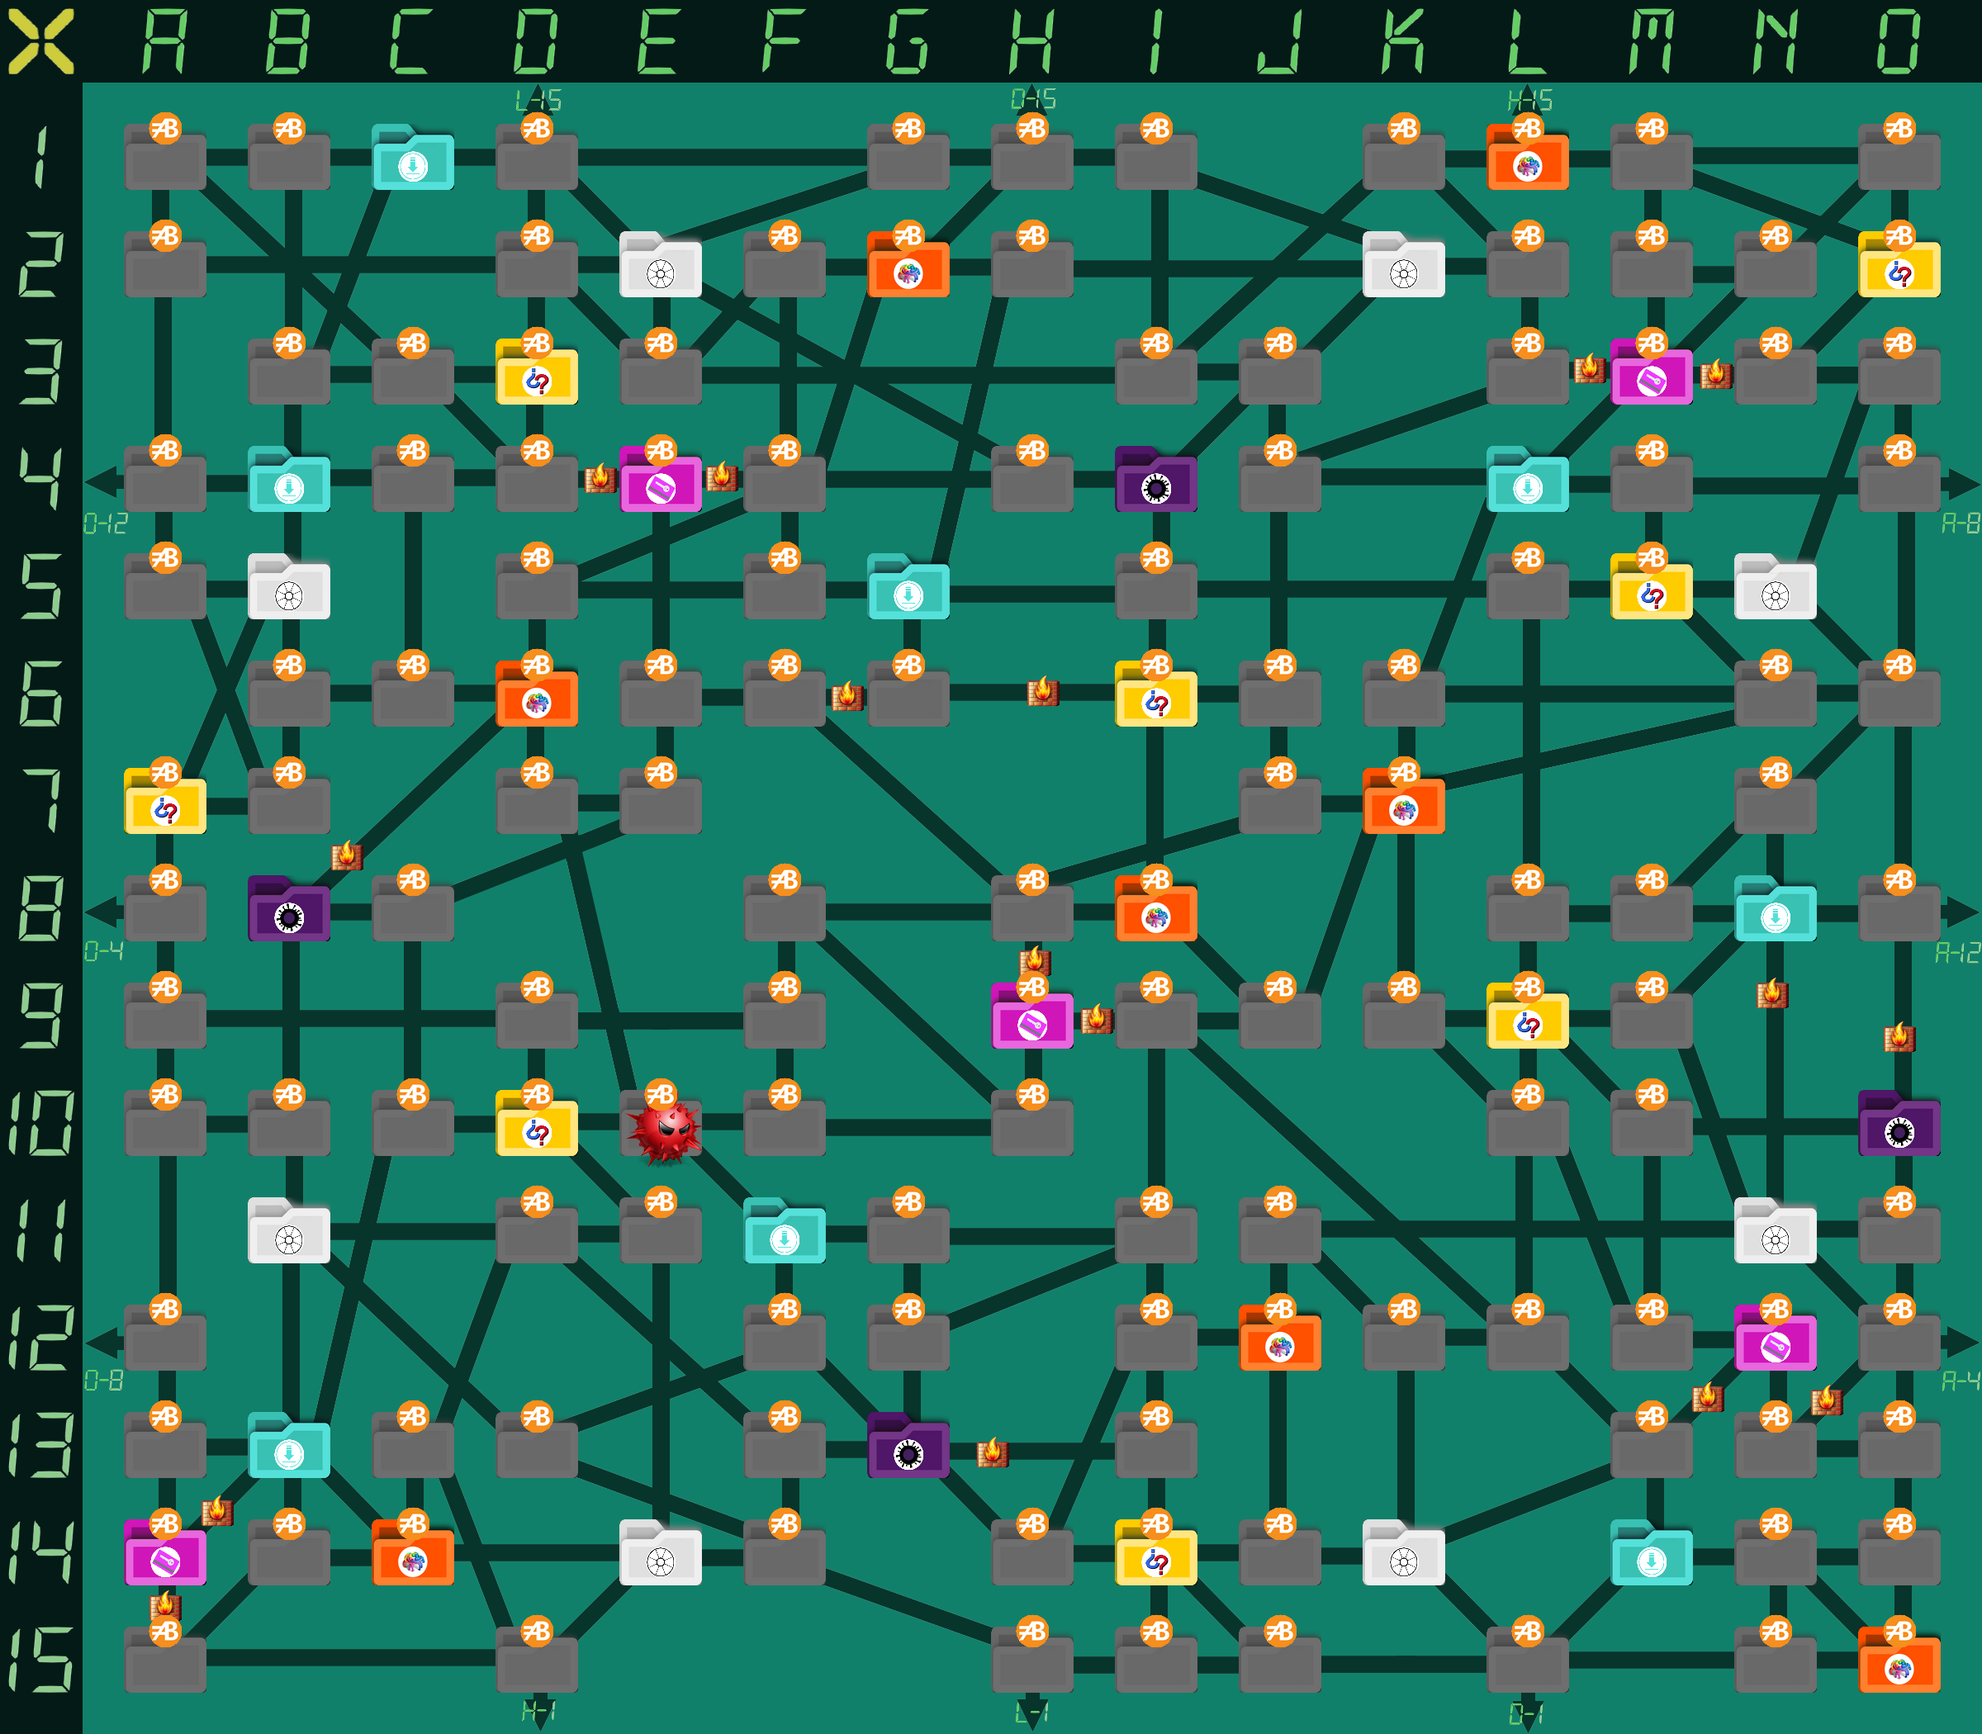
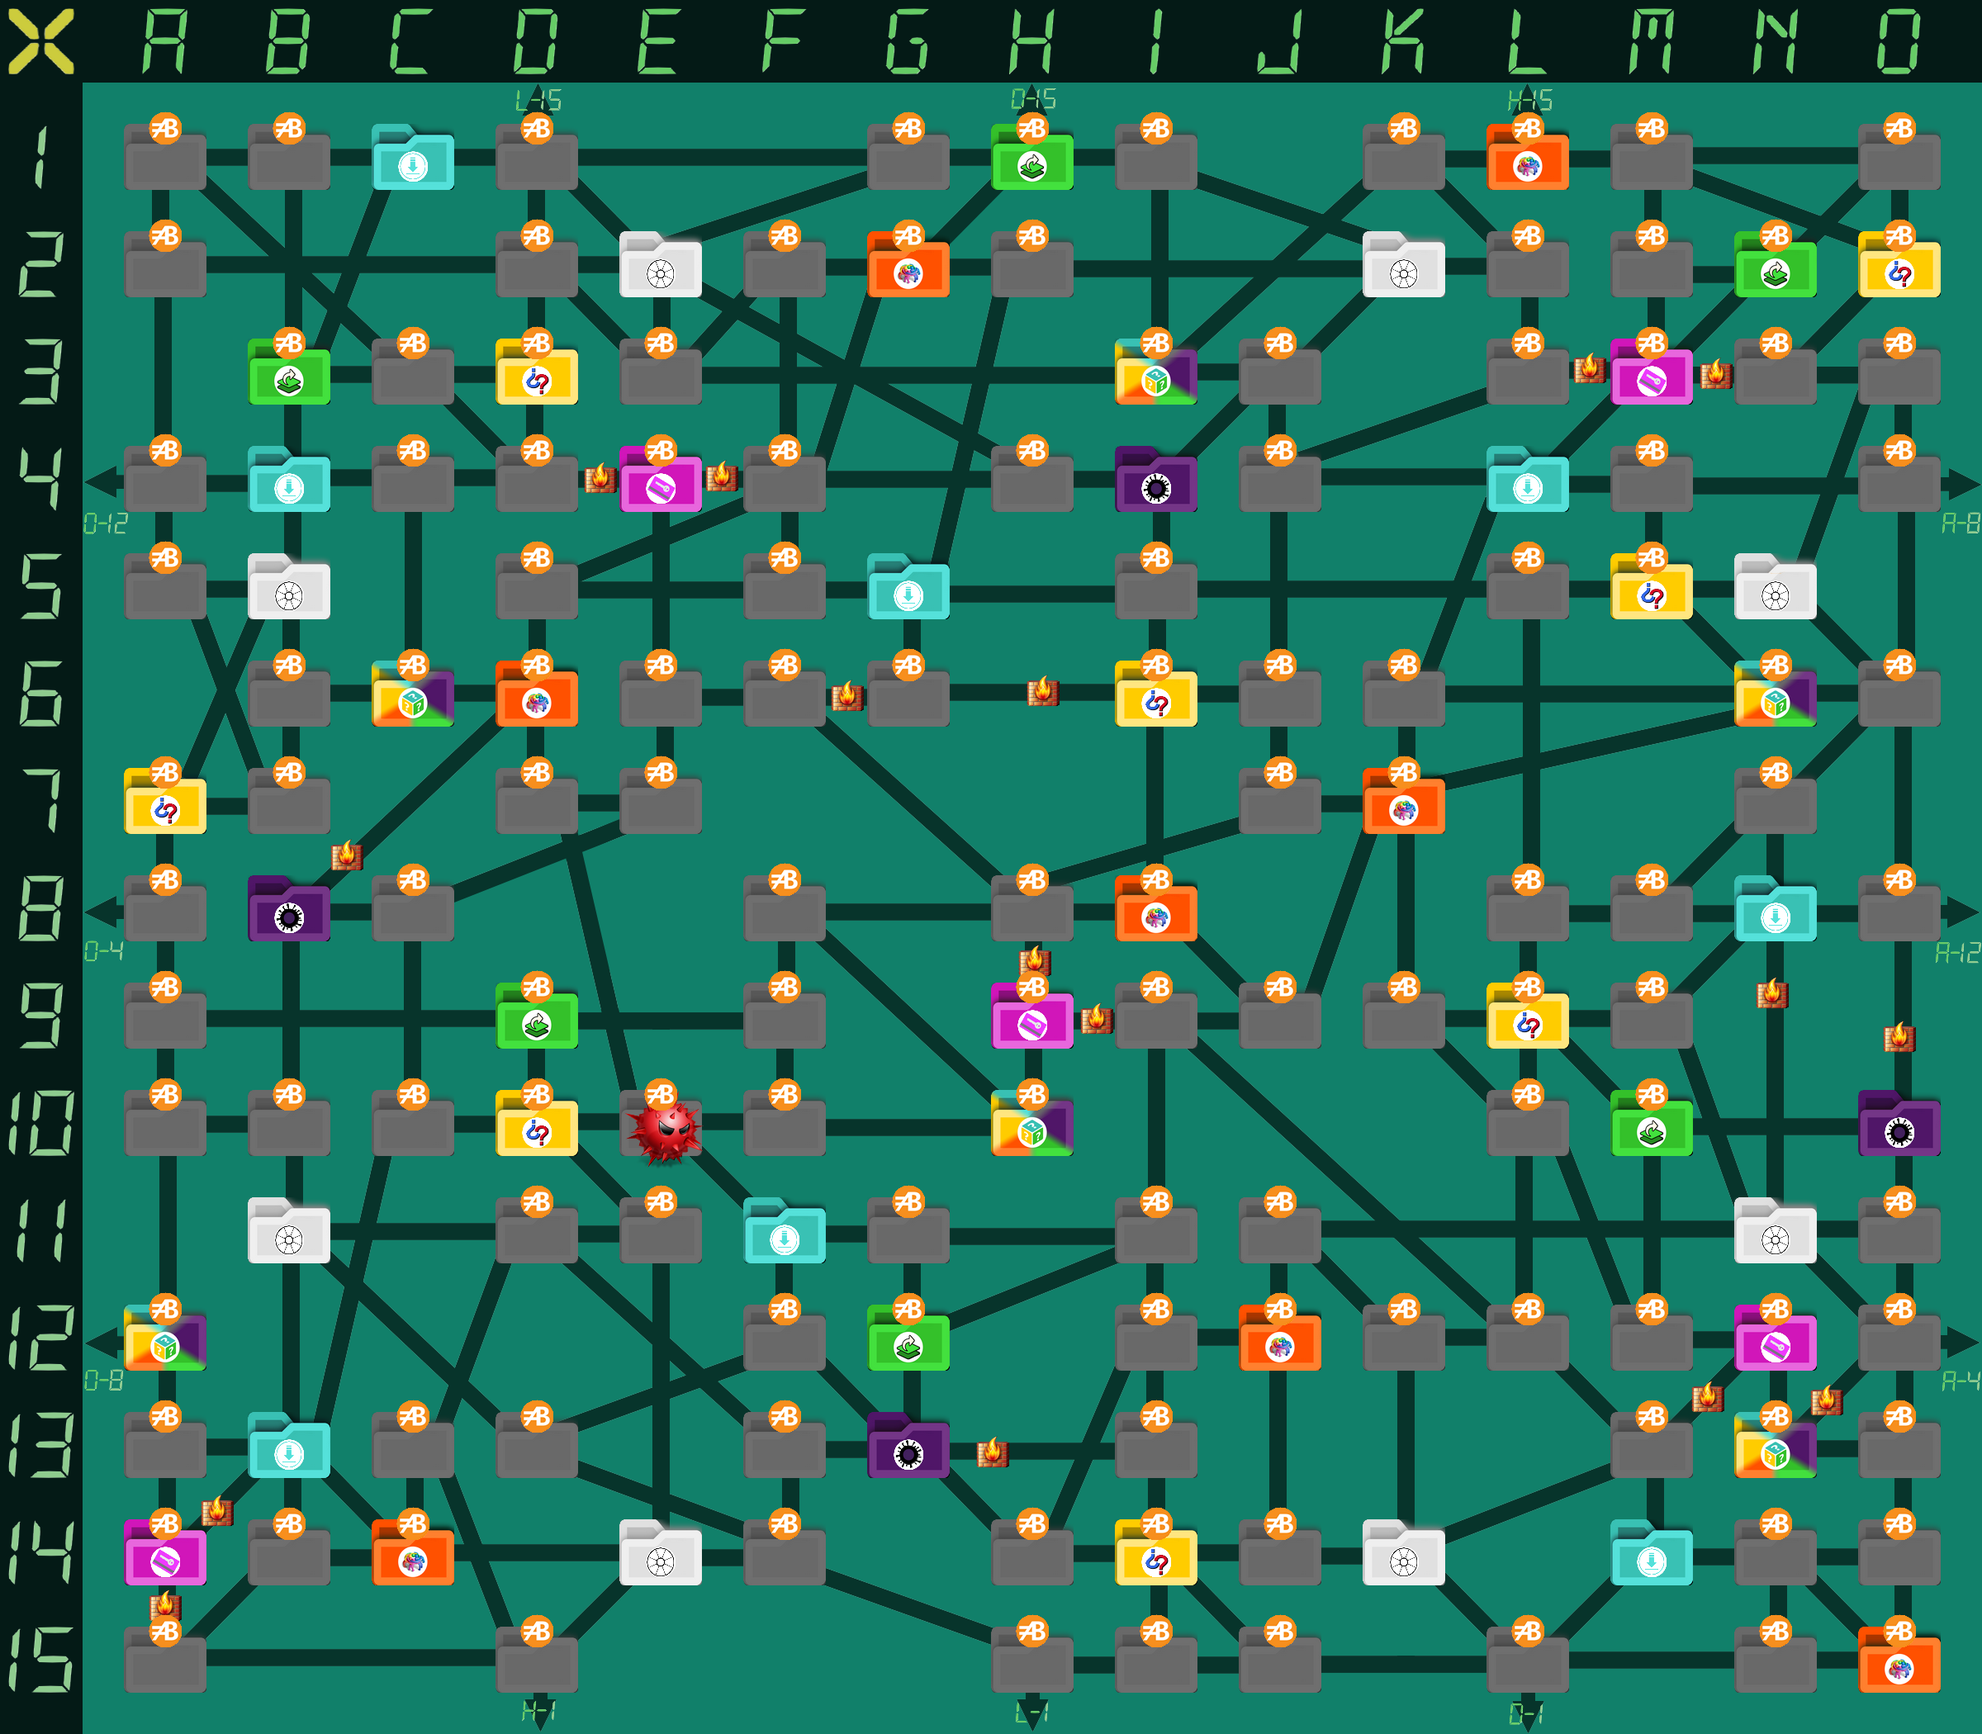
Add files via upload

diff --git a/Placares Secretos - Datamining.html b/Placares Secretos - Datamining.html
@@ -577,16 +577,16 @@
     // Regras e Tabela de Dificuldade mantidas conforme seu código...
     const regrasTexto = {
         pvp: {
-            'muito fácil': ["Recomendado: Máximo 4 jogadores.", "Mapa 5x5 (sem pastas de Chave de Acesso).", "Mapa completo (sem espaços vazios).", "Sem caminhos bloqueados no início.", "SO informa distância e caminhos.", "Zonas Seguras do mapa e individuais informadas.", "Recebe +A e +B simultaneamente.", "Sem limite de uso de Recursos.", "Sem pastas de Quarentena.", "Downloads: -2B (Mín. 1B)."],
-            'fácil': ["Recomendado: Máximo 5 jogadores.", "Mapa 7x7 (1 pasta de Chave de Acesso).", "Diretório Principal: Acesso no 3V.", "Sem caminhos bloqueados no início.", "SO informa distância e caminhos.", "Zonas Seguras do mapa e individuais informadas.", "Recebe +A e +B simultaneamente.", "Limite: 2 Recursos por turno.", "0 a 1 pasta de Quarentena.", "Downloads: -1B (Mín. 1B)."],
-            'normal': ["Recomendado: 3 a 6 jogadores.", "Mapa 9x9 (2 pastas de Chave de Acesso).", "Diretório Principal: Acesso no 5V.", "Caminhos podem começar bloqueados.", "SO informa distância e caminhos.", "Zonas Seguras do mapa e individuais informadas.", "Limite: 1 Recurso por turno.", "1 a 3 pastas de Quarentena no mapa.", "Downloads: Preços normais."],
-            'difícil': ["Recomendado: 4 a 6 jogadores.", "Mapa 12x12 (3 pastas de Chave de Acesso).", "Diretório Principal: Acesso no 7V.", "Mais caminhos bloqueados.", "SO NÃO informa distância ou caminhos.", "Apenas Zonas Seguras individuais são informadas.", "Limite: 1 Recurso por turno.", "2 a 4 pastas de Quarentena (1 turno preso).", "Downloads: +1B."],
-            'extremo': ["Recomendado: 6 a 8 jogadores.", "Mapa 15x15 (5 pastas de Chave de Acesso).", "Diretório Principal: Acesso no 10V.", "Muitos caminhos bloqueados.", "SO NÃO informa distância ou caminhos.", "Zonas Seguras não são informadas.", "Caminhos diagonais não necessariamente em 45º.", "Limite: 1 Recurso por rodada.", "Perdas de A ou B duplicadas.", "Estoque de Downloads reduzido.", "4 ou mais pastas de Quarentena (1 turno preso).", "Downloads: +3B."]
+            'muito fácil': ["Recomendado: Máximo 4 jogadores.", "Mapa 5x5 (sem pastas de Chave de Acesso).", "Mapa completo (sem espaços vazios).", "Sem caminhos bloqueados no início.", "SO informa distância e caminhos.", "Zonas Seguras do mapa e individuais informadas.", "Recebe +A e +B simultaneamente.", "Sem limite de uso de Recursos.", "Multipastas não podem ser de Atalho ou de Quarentena.", "Sem pastas de Atalho.", "Sem pastas de Quarentena.", "Downloads: -2B (Mín. 1B)."],
+            'fácil': ["Recomendado: Máximo 5 jogadores.", "Mapa 7x7 (1 pasta de Chave de Acesso).", "Diretório Principal: Acesso no 3V.", "Sem caminhos bloqueados no início.", "SO informa distância e caminhos.", "Zonas Seguras do mapa e individuais informadas.", "Recebe +A e +B simultaneamente.", "Limite: 2 Recursos por turno.", "Sem pastas de Atalho.", "0 a 1 pasta de Quarentena.", "Downloads: -1B (Mín. 1B)."],
+            'normal': ["Recomendado: 3 a 6 jogadores.", "Mapa 9x9 (2 pastas de Chave de Acesso).", "Diretório Principal: Acesso no 5V.", "Caminhos podem começar bloqueados.", "SO informa distância e caminhos.", "Zonas Seguras do mapa e individuais informadas.", "Limite: 1 Recurso por turno.", "2 a 3 pastas de Atalho no mapa.", "1 a 3 pastas de Quarentena no mapa.", "Downloads: Preços normais."],
+            'difícil': ["Recomendado: 4 a 6 jogadores.", "Mapa 12x12 (3 pastas de Chave de Acesso).", "Diretório Principal: Acesso no 7V.", "Mais caminhos bloqueados.", "SO NÃO informa distância ou caminhos.", "Apenas Zonas Seguras individuais são informadas.", "Limite: 1 Recurso por turno.", "3 a 4 pastas de Atalho no mapa.", "2 a 4 pastas de Quarentena (1 turno preso).", "Downloads: +1B."],
+            'extremo': ["Recomendado: 6 a 8 jogadores.", "Mapa 15x15 (5 pastas de Chave de Acesso).", "Diretório Principal: Acesso no 10V.", "Muitos caminhos bloqueados.", "SO NÃO informa distância ou caminhos.", "Zonas Seguras não são informadas.", "Caminhos diagonais não necessariamente em 45º.", "Limite: 1 Recurso por rodada.", "Perdas de A ou B duplicadas.", "Estoque de Downloads reduzido.", "4 a 6 pastas de Atalho no mapa.", "4 ou mais pastas de Quarentena (1 turno preso).", "Downloads: +3B."]
         },
         coop: {
-            'fácil': ["Recomendado: Máximo 4 jogadores.", "Mapa 9x9 (2 pastas de Chave de Acesso).", "Diretório Principal: Acesso no 3V.", "Sem caminhos bloqueados no início.", "Limite: 1 Recurso do grupo por turno.", "SO informa distância e caminhos.", "Zonas Seguras do mapa e individuais informadas.", "Grupo recebe +A e +B simultaneamente.", "Roleta Arquivo Desconhecido toda rodada.", "1 a 3 pastas de Quarentena.", "Nova Zona Segura: 6B.", "Downloads: -2B (Mín. 1B)."],
-            'normal': ["Recomendado: 3 a 6 jogadores.", "Mapa 12x12 (3 pastas de Chave de Acesso).", "Diretório Principal: Acesso no 5V.", "Caminhos podem começar bloqueados.", "Limite: 1 Recurso do grupo por turno.", "SO informa distância e caminhos.", "Apenas Zonas Seguras individuais são informadas.", "Roleta Arquivo Desconhecido toda rodada.", "2 a 5 pastas de Quarentena (1 turno preso).", "Nova Zona Segura: 8B.", "Downloads: Preço normal."],
-            'difícil': ["Recomendado: 5 a 8 jogadores.", "Mapa 15x15 (5 pastas de Chave de Acesso).", "Diretório Principal: Acesso no 7V.", "Muitos caminhos bloqueados.", "Perdas de A, B e número de turnos duplicadas.", "Limite: 1 Recurso do grupo por rodada.", "SO NÃO informa distância ou caminhos.", "Zonas Seguras não são informadas.", "Caminhos diagonais não necessariamente em 45º.", "Roleta de Quarentena toda rodada.", "4 ou mais pastas de Quarentena (1 turno preso).", "Nova Zona Segura: 12B.", "Downloads: +3B."]
+            'fácil': ["Recomendado: Máximo 4 jogadores.", "Mapa 9x9 (2 pastas de Chave de Acesso).", "Diretório Principal: Acesso no 3V.", "Sem caminhos bloqueados no início.", "Limite: 1 Recurso do grupo por turno.", "SO informa distância e caminhos.", "Zonas Seguras do mapa e individuais informadas.", "Grupo recebe +A e +B simultaneamente.", "Roleta Arquivo Desconhecido toda rodada.", "2 a 3 pastas de Atalho no mapa.", "1 a 3 pastas de Quarentena.", "Nova Zona Segura: 6B.", "Downloads: -2B (Mín. 1B)."],
+            'normal': ["Recomendado: 3 a 6 jogadores.", "Mapa 12x12 (3 pastas de Chave de Acesso).", "Diretório Principal: Acesso no 5V.", "Caminhos podem começar bloqueados.", "Limite: 1 Recurso do grupo por turno.", "SO informa distância e caminhos.", "Apenas Zonas Seguras individuais são informadas.", "Roleta Arquivo Desconhecido toda rodada.", "3 a 4 pastas de Atalho no mapa.", "2 a 5 pastas de Quarentena (1 turno preso).", "Nova Zona Segura: 8B.", "Downloads: Preço normal."],
+            'difícil': ["Recomendado: 5 a 8 jogadores.", "Mapa 15x15 (5 pastas de Chave de Acesso).", "Diretório Principal: Acesso no 7V.", "Muitos caminhos bloqueados.", "Perdas de A, B e número de turnos duplicadas.", "Limite: 1 Recurso do grupo por rodada.", "SO NÃO informa distância ou caminhos.", "Zonas Seguras não são informadas.", "Caminhos diagonais não necessariamente em 45º.", "Roleta de Quarentena toda rodada.", "4 a 6 pastas de Atalho no mapa.", "4 ou mais pastas de Quarentena (1 turno preso).", "Nova Zona Segura: 12B.", "Downloads: +3B."]
         }
     };
 

diff --git a/Regras - Datamining.html b/Regras - Datamining.html
@@ -287,6 +287,8 @@
 						<li>No início do jogo, os jogadores são informados sobre onde estão todas as pastas de Zonas Seguras do mapa. Cada jogador recebe secretamente as coordenadas de onde ele mesmo inicia o jogo, mas não sabe onde se iniciam os outros jogadores.</li>
 						<li>Ao invés de escolher entre receber +A ou +B, seja por vitórias ou encontrar criptomoedas, os jogadores recebem ambos.</li>
 						<li>Não há limite de uso de Recursos por turno.</li>
+						<li>Multipastas não podem ser de Atalho ou de Quarentena.</li>
+						<li>Sem pasta de Atalho pelo mapa.</li>
 						<li>Sem pasta de Quarentena pelo mapa.</li>
 						<li>Recursos à venda na pasta de Downloads custam -2B que seus preços normais <i><u>(Mínimo de 1B)</u></i>.</li>
 					</div>
@@ -304,6 +306,7 @@
 						<li>No início do jogo, os jogadores são informados sobre onde estão todas as pastas de Zonas Seguras do mapa. Cada jogador recebe secretamente as coordenadas de onde ele mesmo inicia o jogo, mas não sabe onde se iniciam os outros jogadores.</li>
 						<li>Ao invés de escolher entre receber +A ou +B, seja por vitórias ou encontrar criptomoedas, os jogadores recebem ambos.</li>
 						<li>Limite de uso de 2 Recursos por jogador a cada turno.</li>
+						<li>Sem pasta de Atalho pelo mapa.</li>
 						<li>Há no mínimo 0 e no máximo 1 pasta de Quarentena pelo mapa.</li>
 						<li>Recursos à venda na pasta de Downloads custam -1B que seus preços normais <i><u>(Mínimo de 1B)</u></i>.</li>
 					</div>
@@ -320,6 +323,7 @@
 						<li>O SO informará a distância que deslocará, após o jogador escolher um caminho, e quais caminhos poderão ser seguidos da pasta que o jogador está.</li>
 						<li>No início do jogo, os jogadores são informados sobre onde estão todas as pastas de Zonas Seguras do mapa. Cada jogador recebe secretamente as coordenadas de onde ele mesmo inicia o jogo, mas não sabe onde se iniciam os outros jogadores.</li>
 						<li>Limite de uso de 1 Recurso por jogador a cada turno.</li>
+						<li>Há no mínimo 2 e no máximo 3 pastas de Atalho pelo mapa.</li>
 						<li>Há no mínimo 1 e no máximo 3 pastas de Quarentena pelo mapa.</li>
 						<li>Recursos à venda na pasta de Downloads custam os seus preços normais.</li>
 					</div>
@@ -336,6 +340,7 @@
 						<li>O SO não informará a distância que deslocará, após o jogador escolher um caminho, nem quais caminhos poderão ser seguidos da pasta que o jogador está <i><u>(O jogador informará uma direção e o SO dirá se o jogador se moveu ou falará para o jogador escolher outra)</u></i>.</li>
 						<li>No início do jogo, cada jogador recebe secretamente as coordenadas de onde ele mesmo inicia o jogo, mas não sabe onde se iniciam os outros jogadores. Os jogadores não são informados sobre onde estão as demais pastas de Zonas Seguras do mapa.</li>
 						<li>Limite de uso de 1 Recurso por jogador a cada turno.</li>
+						<li>Há no mínimo 3 e no máximo 4 pastas de Atalho pelo mapa.</li>
 						<li>Há no mínimo 2 e no máximo 4 pastas de Quarentena pelo mapa e o jogador fica 1 turno preso nelas.</li>
 						<li>Recursos à venda na pasta de Downloads custam +1B que seus preços normais.</li>
 					</div>
@@ -355,6 +360,7 @@
 						<li>Limite de uso de 1 Recurso por jogador a cada rodada.</li>
 						<li>Todas as perdas de A ou B são duplicadas.</li>
 						<li>Apenas 3 Recursos são vendidos na pasta de Download no máximo normalmente <i><u>(3 Comuns no primeiro patamar; 2 Comuns e 1 Incomum no segundo patamar; e 1 Comum, 1 Incomum e 1 Raro no terceiro patamar)</u></i>.</li>
+						<li>Há no mínimo 4 pastas de Atalho pelo mapa.</li>
 						<li>Há no mínimo 4 pastas de Quarentena pelo mapa e o jogador fica 1 turno preso nelas.</li>
 						<li>Recursos à venda na pasta de Downloads custam +3B que seus preços normais.</li>
 					</div>
@@ -456,6 +462,7 @@
 						<li>No início do jogo, o grupo é informado sobre onde estão todas as pastas de Zonas Seguras do mapa e recebe as coordenadas de onde cada jogador inicia o jogo.</li>
 						<li>Ao invés de escolher entre ganhar +A ou +B, seja por vitórias ou encontrar criptomoedas, o grupo recebe ambos.</li>
 						<li>Ao final de cada rodada, a roleta de Arquivo Desconhecido é rolada.</li>
+						<li>Há no mínimo 2 e no máximo 3 pastas de Atalho pelo mapa.</li>
 						<li>Há no mínimo 1 e no máximo 3 pastas de Quarentena pelo mapa.</li>
 						<li>Adquirir uma nova Zona Segura custa 6B.</li>
 						<li>Recursos à venda na pasta de Downloads custam -2B que seus preços normais (Mínimo de 1B).</li>
@@ -474,6 +481,7 @@
 						<li>O SO informará a distância que deslocará, após o jogador escolher um caminho, e quais caminhos poderão ser seguidos da pasta que o jogador está.</li>
 						<li>No início do jogo, o grupo recebe as coordenadas de onde cada jogador inicia o jogo, porém não é informado sobre onde estão as demais pastas de Zonas Seguras do mapa.</li>
 						<li>Ao final de cada rodada, a roleta de Arquivo Desconhecido é rolada.</li>
+						<li>Há no mínimo 3 e no máximo 4 pastas de Atalho pelo mapa.</li>
 						<li>Há no mínimo 2 e no máximo 5 pastas de Quarentena pelo mapa e o jogador fica 1 turno preso nelas.</li>
 						<li>Adquirir uma nova Zona Segura custa 8B.</li>
 						<li>Recursos à venda na pasta de Downloads custam seus preços normais.</li>
@@ -494,6 +502,7 @@
 						<li>O grupo não é informado sobre onde estão as pastas de Zonas Seguras do mapa, nem as coordenadas de onde cada jogador inicia o jogo.</li>
 						<li>Caminhos diagonais não são necessariamente em 45º.</li>
 						<li>Ao final de cada rodada, a roleta de Quarentena é rolada.</li>
+						<li>Há no mínimo 4 pastas de Atalho pelo mapa.</li>
 						<li>Há no mínimo 4 pastas de Quarentena pelo mapa e o jogador fica 1 turno preso nelas.</li>
 						<li>Adquirir uma nova Zona Segura custa 12B.</li>
 						<li>Recursos à venda na pasta de Downloads custam +3B que seus preços normais.</li>
